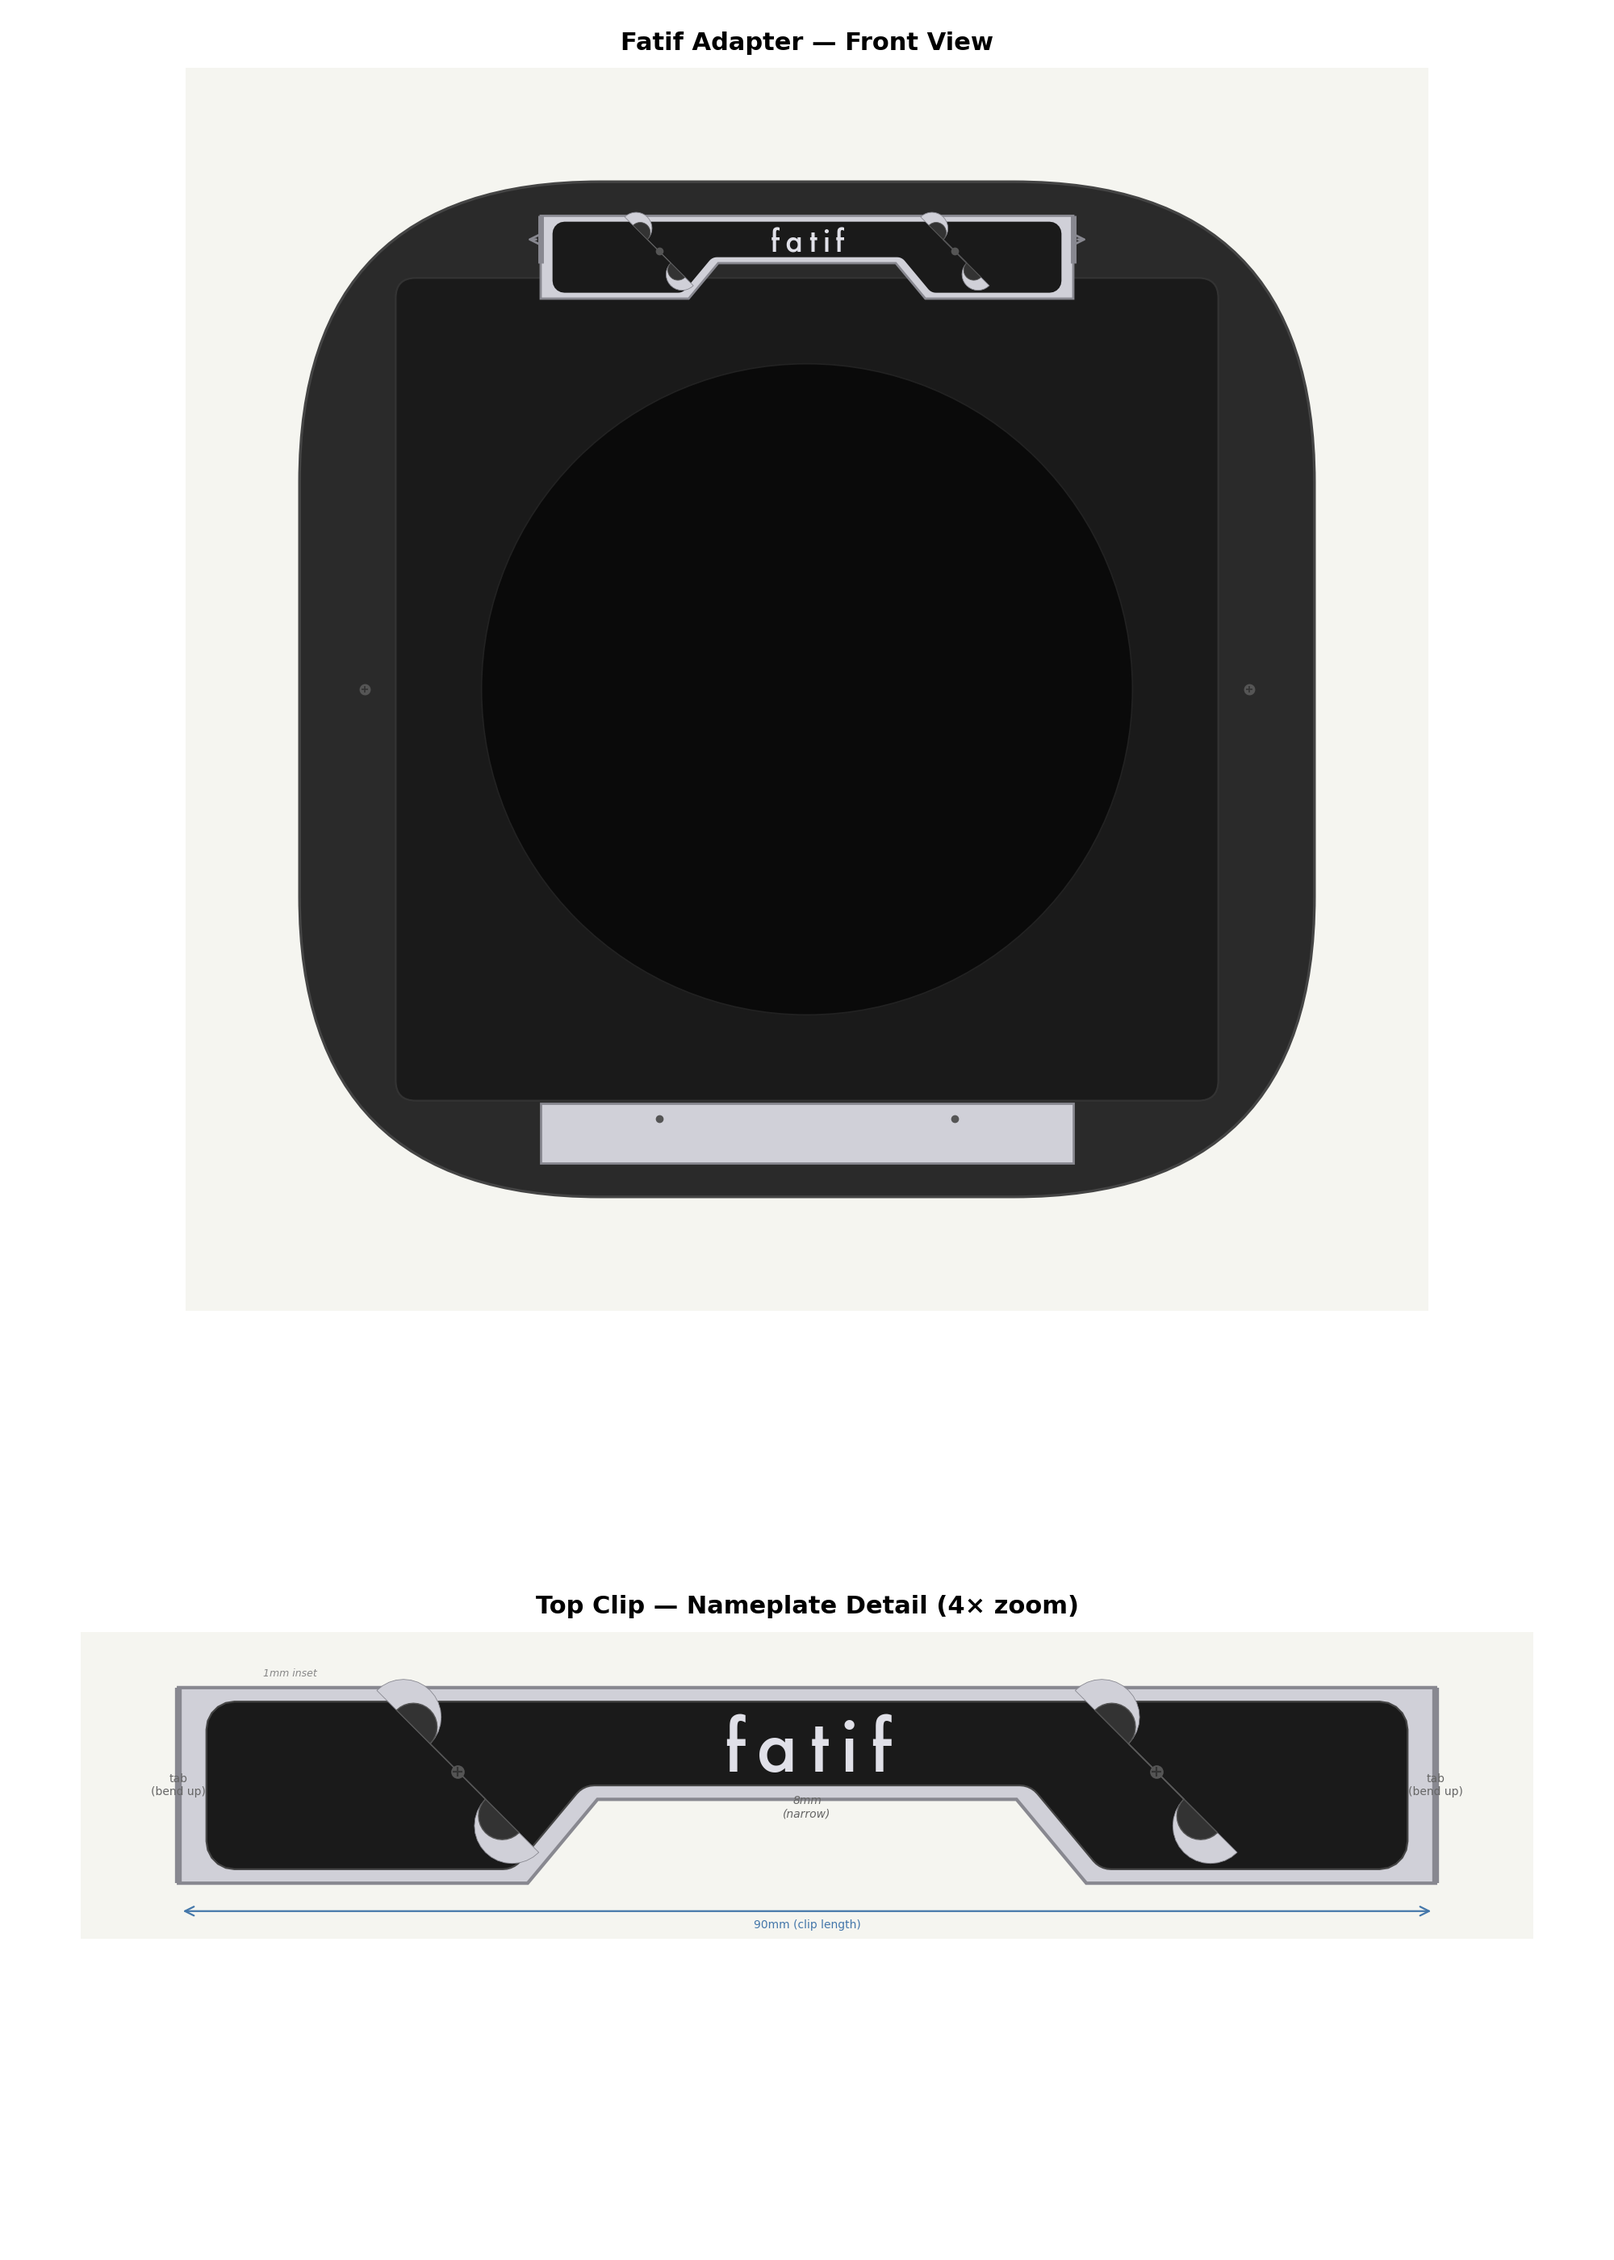
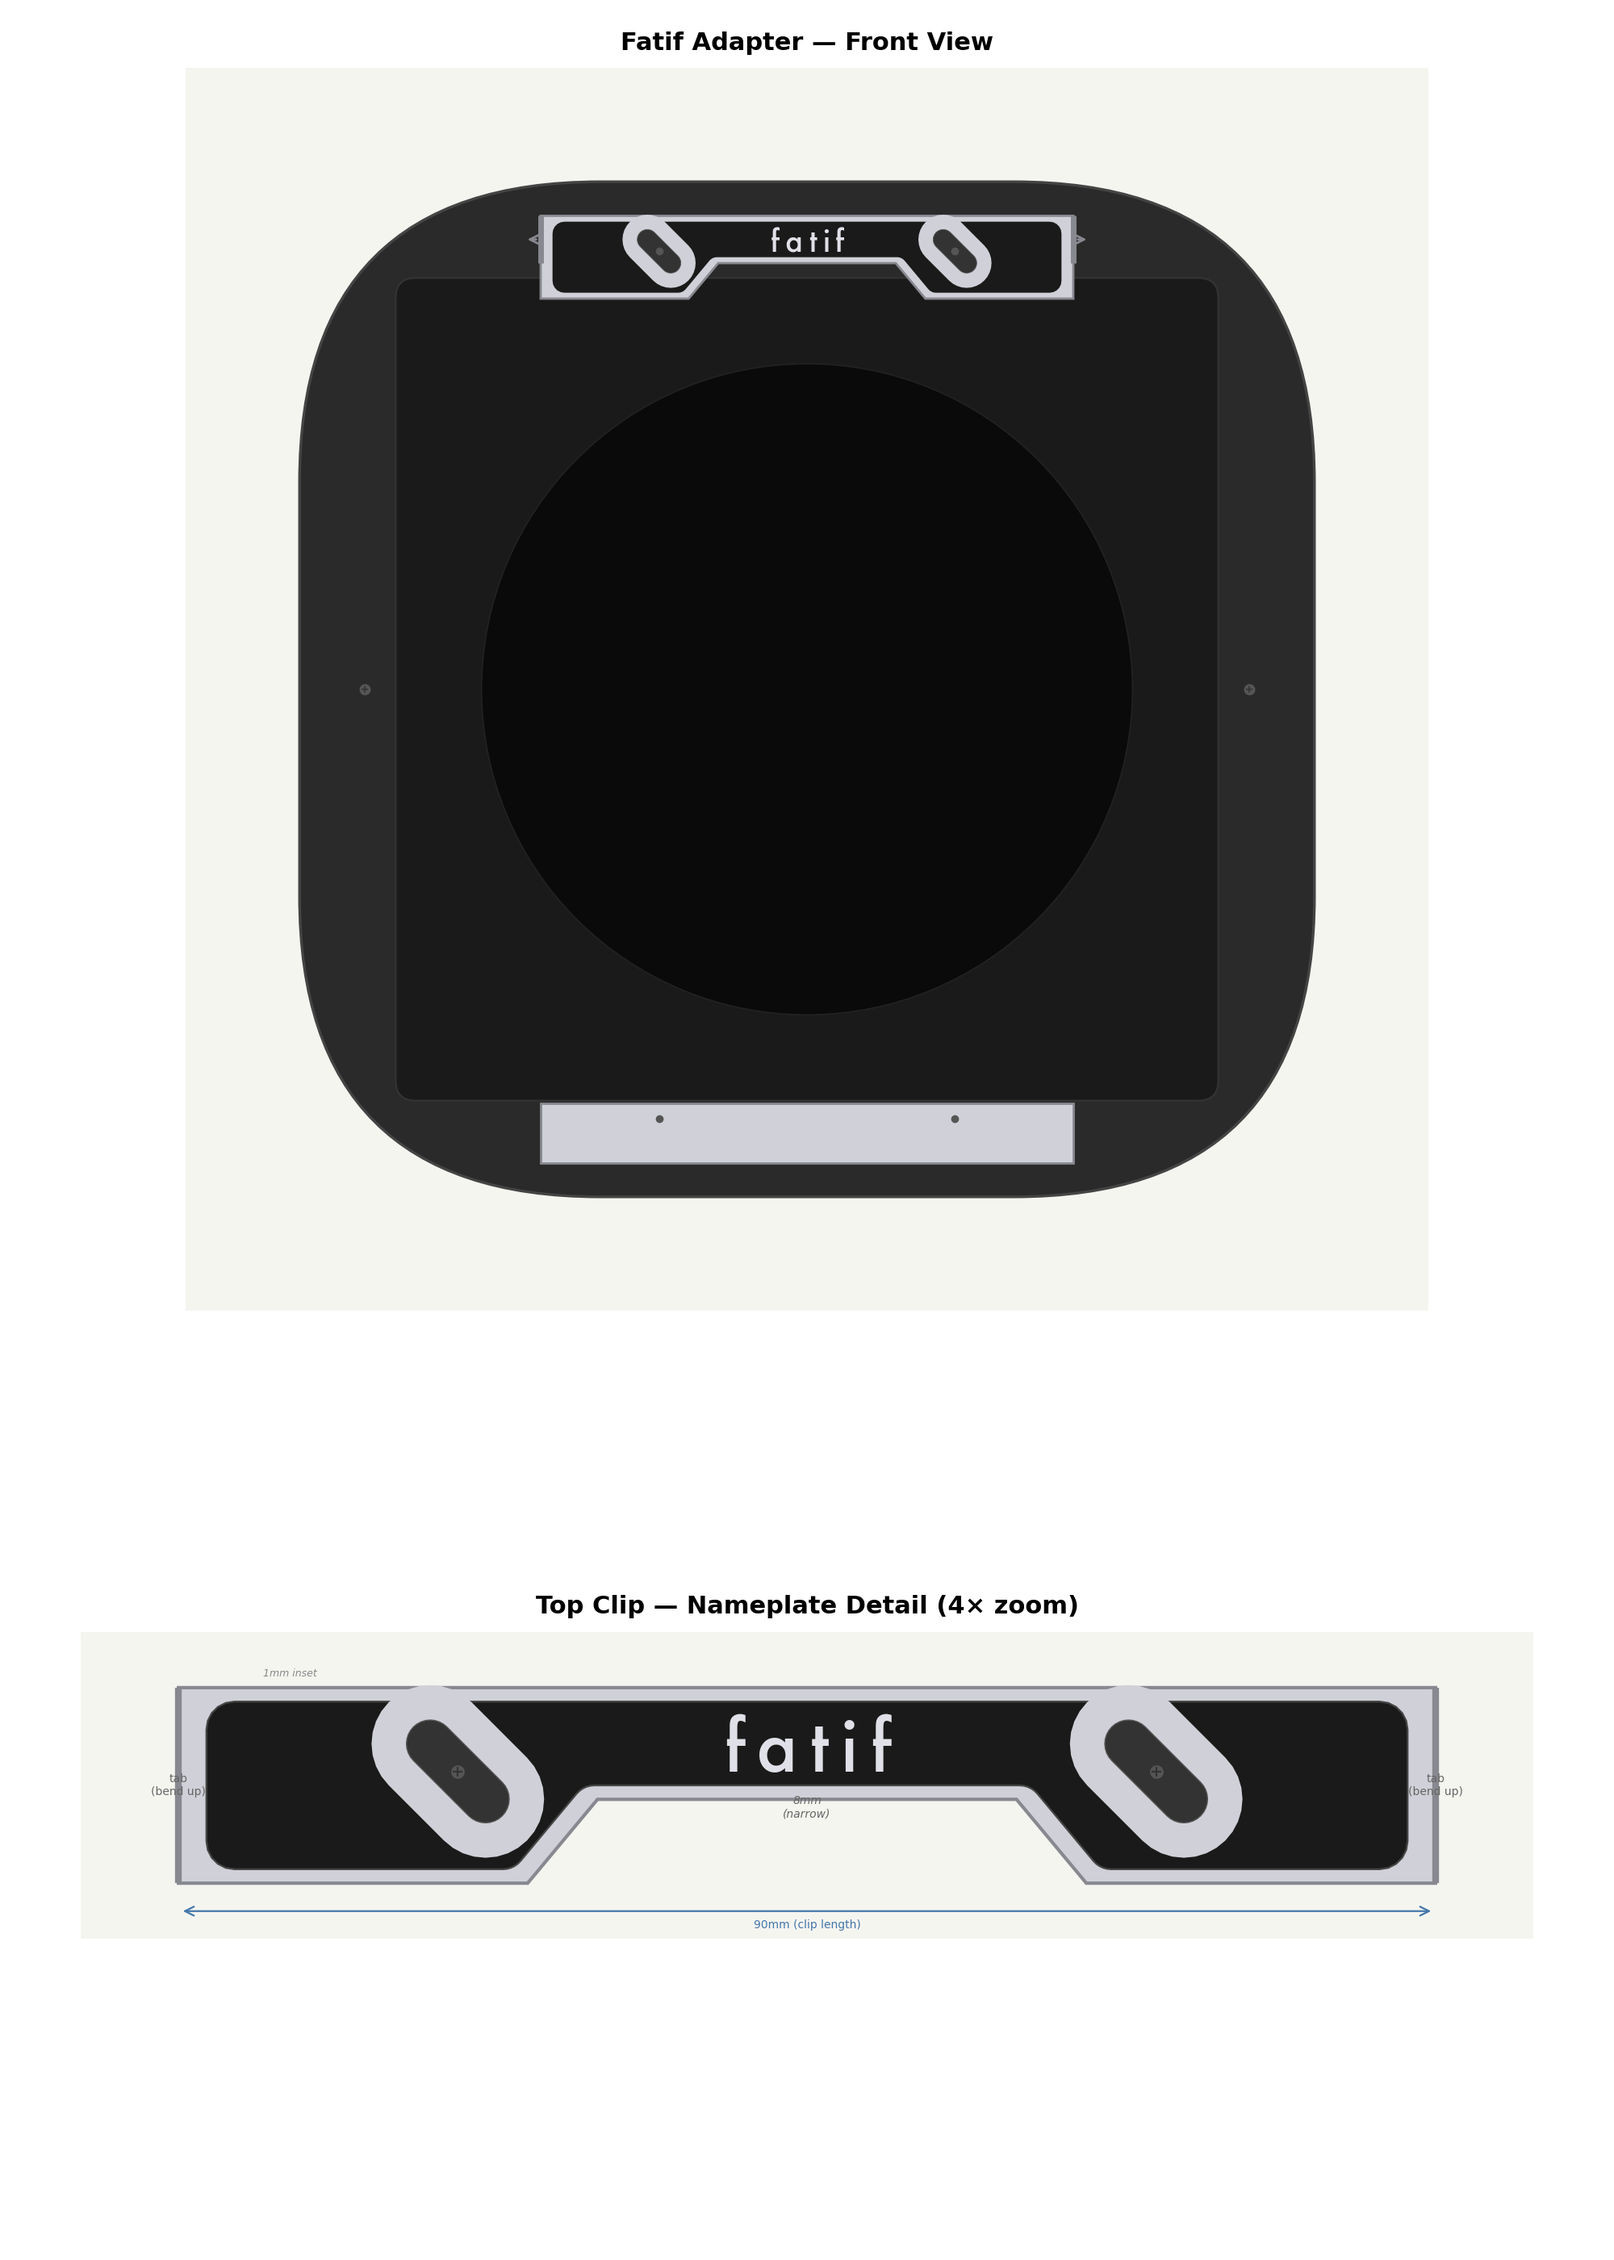
Fix stadium geometry and racetrack rendering
The stadium_points() function was generating a self-intersecting bowtie
shape instead of a proper discorectangle. Rewrote to correctly trace two
semicircular end caps connected by parallel straight sides. Increased
slot clearance margin to 2.5mm for a visible racetrack, removed edge
lines from clearance fills so they blend into unpainted clip edges.

diff --git a/generate_nameplate_mockup.py b/generate_nameplate_mockup.py
@@ -73,9 +73,9 @@ SLOT_WIDTH = 3.4
 SLOT_ANGLE = 135.0
 
 # Slot clearance: bare-metal racetrack around each slot hole
-# ~1mm margin all around, matching the paint edge inset (Crown Graphic style)
+# Generous margin so the track reads as a continuous oval (Crown Graphic style)
 # Screw head is larger and sits on top of the paint — racetrack is aesthetic only
-SLOT_CLEAR_MARGIN = 1.0   # uniform margin around slot hole
+SLOT_CLEAR_MARGIN = 2.5   # uniform margin around slot hole
 
 # Output
 SAVE_DPI = 200
@@ -121,20 +121,35 @@ def rounded_square_path(cx, cy, size, r):
 
 
 def stadium_points(cx, cy, half_l, half_w, angle_deg, n_arc=16):
-    """Return (xs, ys) outline of a stadium shape (slot clearance zone)."""
+    """Return (xs, ys) outline of a stadium (rect with semicircular end caps).
+
+    half_l: half the overall length (center to tip of end cap)
+    half_w: half the width perpendicular to the long axis (= end cap radius)
+    angle_deg: rotation of the long axis
+    """
     angle_rad = np.radians(angle_deg)
-    dx, dy = np.cos(angle_rad), np.sin(angle_rad)
-    nx, ny = -dy, dx
+    ax_v = np.array([np.cos(angle_rad), np.sin(angle_rad)])   # along slot
+    perp = np.array([-np.sin(angle_rad), np.cos(angle_rad)])  # perpendicular
+    center = np.array([cx, cy])
+
+    # Straight section half-length (end caps eat into overall length)
+    shl = max(half_l - half_w, 0.0)
+
     pts = []
+    # Right end cap: semicircle from +perp side, through +axis tip, to -perp side
+    rc = center + shl * ax_v
+    angle_perp = angle_rad + np.pi / 2
     for i in range(n_arc + 1):
-        theta = np.pi / 2 + np.pi * i / n_arc
-        pts.append((cx + half_l * dx + half_w * (nx * np.cos(theta) + dx * np.sin(theta)),
-                     cy + half_l * dy + half_w * (ny * np.cos(theta) + dy * np.sin(theta))))
+        theta = angle_perp - np.pi * i / n_arc
+        pts.append(rc + half_w * np.array([np.cos(theta), np.sin(theta)]))
+
+    # Left end cap: semicircle from -perp side, through -axis tip, to +perp side
+    lc = center - shl * ax_v
     for i in range(n_arc + 1):
-        theta = -np.pi / 2 + np.pi * i / n_arc
-        pts.append((cx - half_l * dx + half_w * (nx * np.cos(theta) + dx * np.sin(theta)),
-                     cy - half_l * dy + half_w * (ny * np.cos(theta) + dy * np.sin(theta))))
-    pts.append(pts[0])
+        theta = angle_perp - np.pi - np.pi * i / n_arc
+        pts.append(lc + half_w * np.array([np.cos(theta), np.sin(theta)]))
+
+    pts.append(pts[0])  # close
     return [p[0] for p in pts], [p[1] for p in pts]
 
 
@@ -255,8 +270,7 @@ def draw_paint_fill(ax, edgecolor="none", lw=0, **kwargs):
     clear_half_w = SLOT_WIDTH / 2 + SLOT_CLEAR_MARGIN
     for sx in [-25, 25]:
         xs, ys = stadium_points(sx, 74, clear_half_l, clear_half_w, SLOT_ANGLE)
-        ax.fill(xs, ys, color=STAINLESS, edgecolor=STAINLESS_EDGE,
-                lw=0.3, zorder=8)
+        ax.fill(xs, ys, color=STAINLESS, edgecolor="none", zorder=8)
 
 
 def get_px_per_mm(ax):
